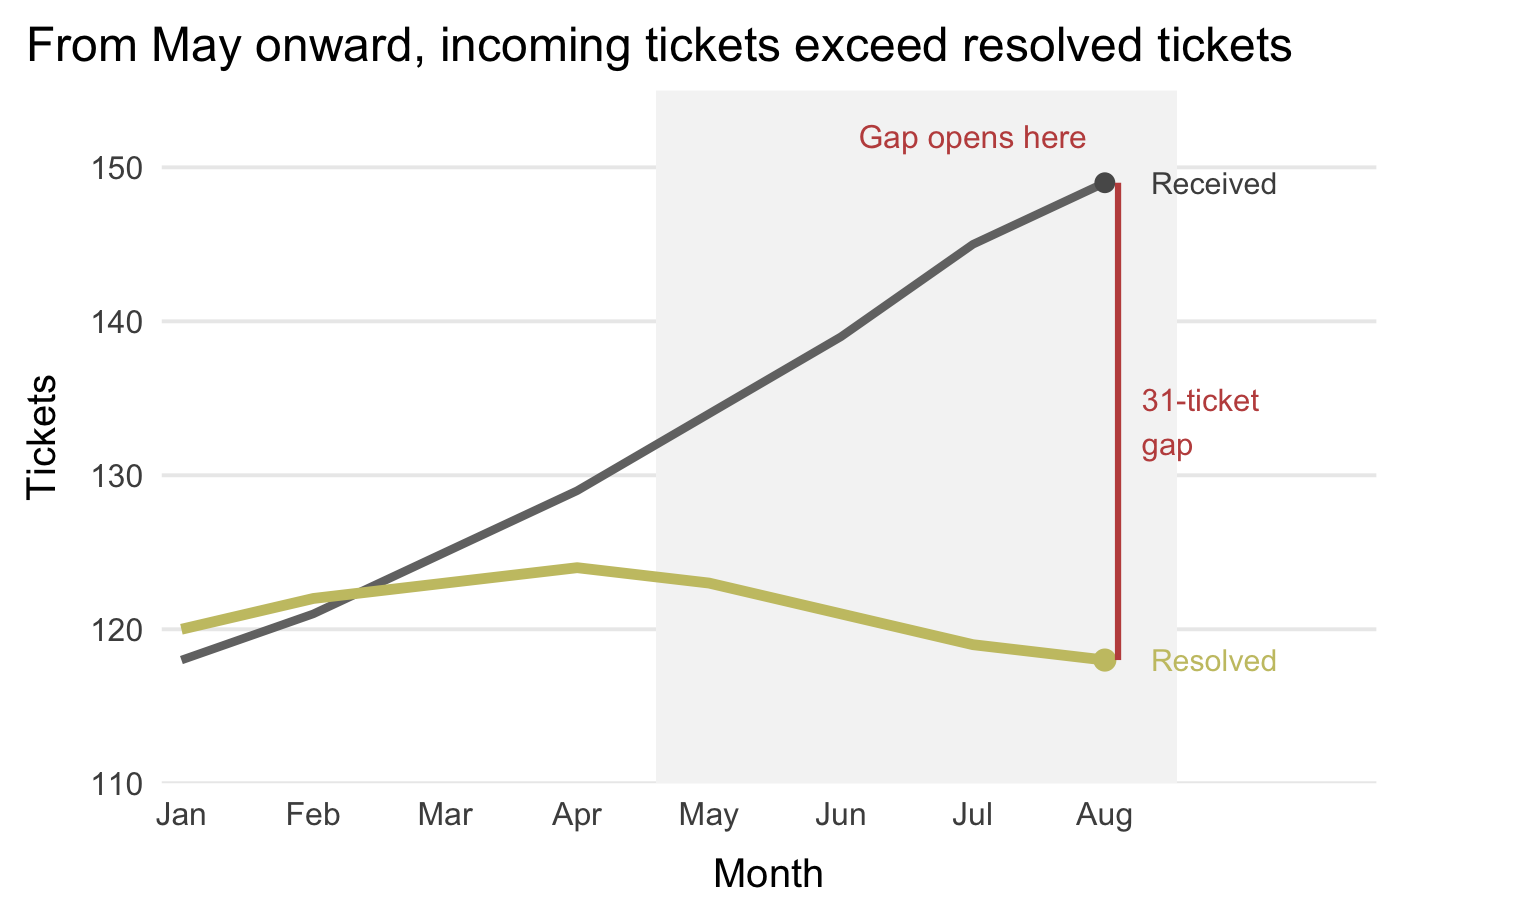
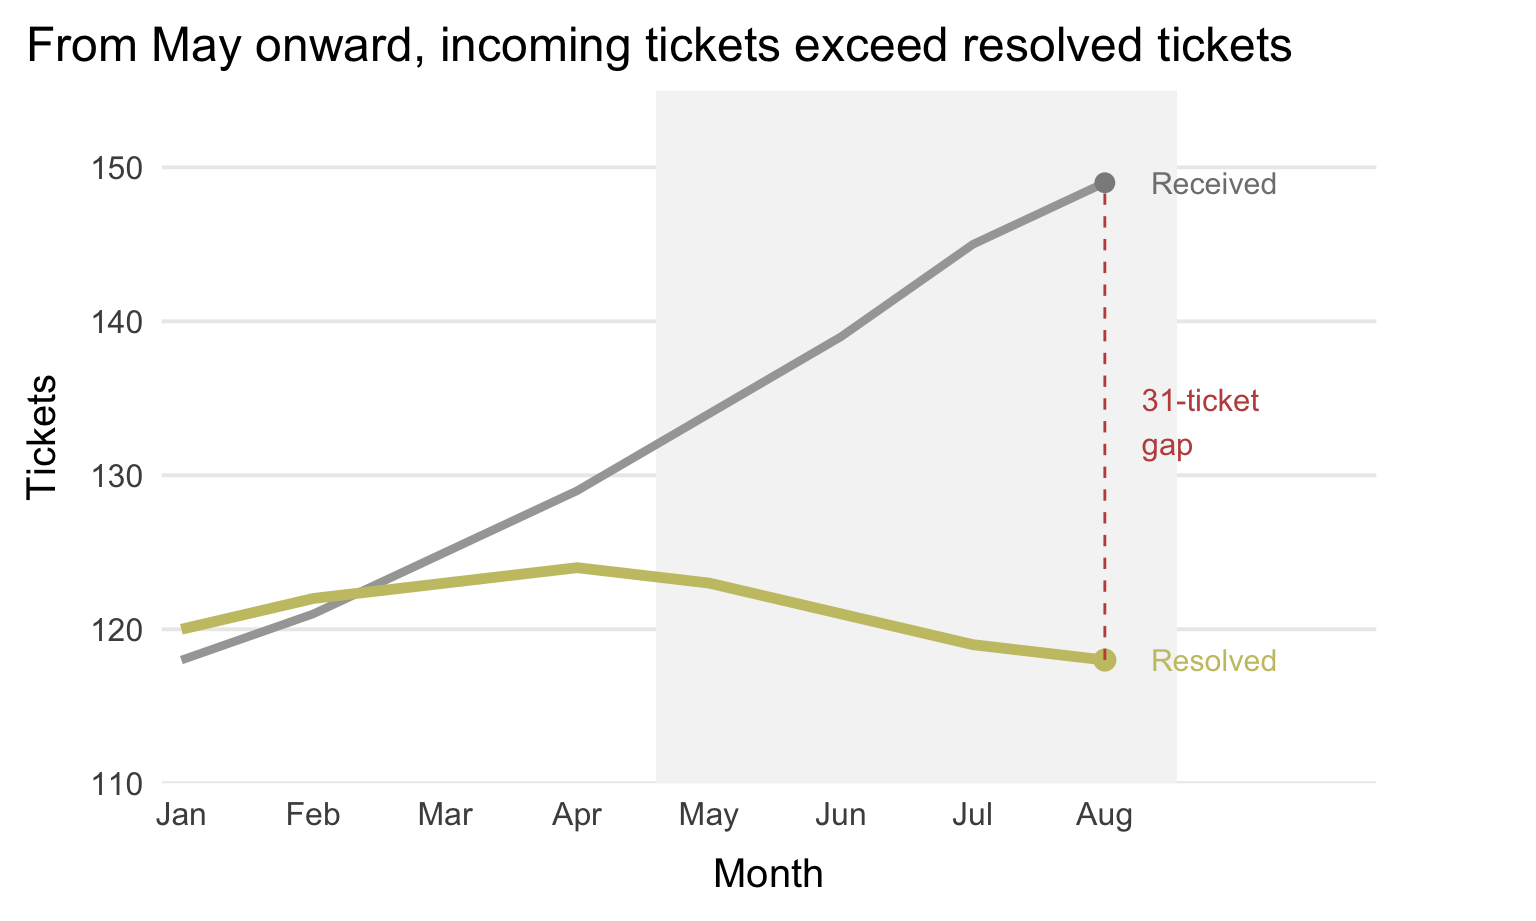
Update Week 14 handout and slides for visual redesign activity

diff --git a/modules/14_refining/slides.html b/modules/14_refining/slides.html
@@ -330,8 +330,8 @@
 </div>
 
 </section>
-<section id="from-making-charts-to-refining-charts" class="slide level2">
-<h2>From Making Charts to Refining Charts</h2>
+<section id="from-making-to-refining-charts" class="slide level2">
+<h2>From Making to Refining Charts</h2>
 <ul>
 <li>Previously, the question was: <strong>what visual should I use?</strong></li>
 <li>Now, the question is: <strong>what needs to change so the message is obvious?</strong></li>
@@ -493,6 +493,21 @@
           display:block!important;
       }</style></aside>
 </section>
+<section id="reduce-clutter" class="slide level2">
+<h2>Reduce Clutter</h2>
+<ol type="1">
+<li>Remove chart border</li>
+<li>Remove gridlines</li>
+<li>Remove data markers</li>
+<li>Clean up axis labels</li>
+<li>Label data directly</li>
+<li>Leverage consistent color</li>
+</ol>
+</section>
+<section id="section" class="slide level2">
+<h2></h2>
+
+<img data-src="includes/it_compare.png" class="r-stretch"></section>
 <section id="focus-attention-on-purpose" class="slide level2">
 <h2>Focus Attention on Purpose</h2>
 <!-- :::: {.columns}
@@ -587,21 +602,6 @@
           display:block!important;
       }</style></aside>
 </section>
-<section id="reduce-clutter" class="slide level2">
-<h2>Reduce Clutter</h2>
-<ol type="1">
-<li>Remove chart border</li>
-<li>Remove gridlines</li>
-<li>Remove data markers</li>
-<li>Clean up axis labels</li>
-<li>Label data directly</li>
-<li>Leverage consistent color</li>
-</ol>
-</section>
-<section id="section" class="slide level2">
-<h2></h2>
-
-<img data-src="includes/it_compare.png" class="r-stretch"></section>
 <section>
 <section id="activity-visual-redesign" class="title-slide slide level1 center">
 <h1>Activity: Visual Redesign</h1>
